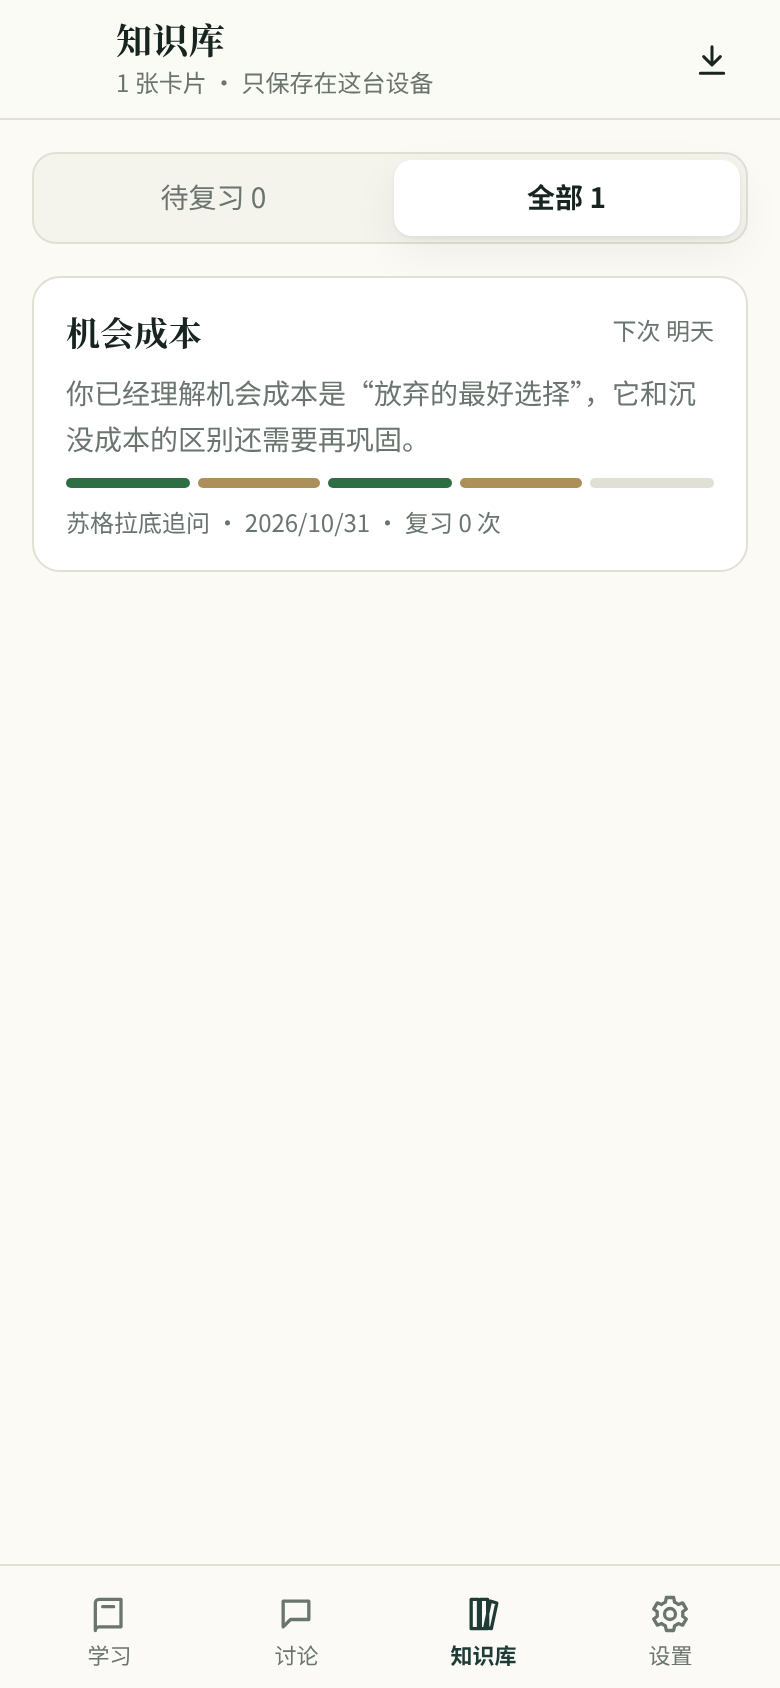
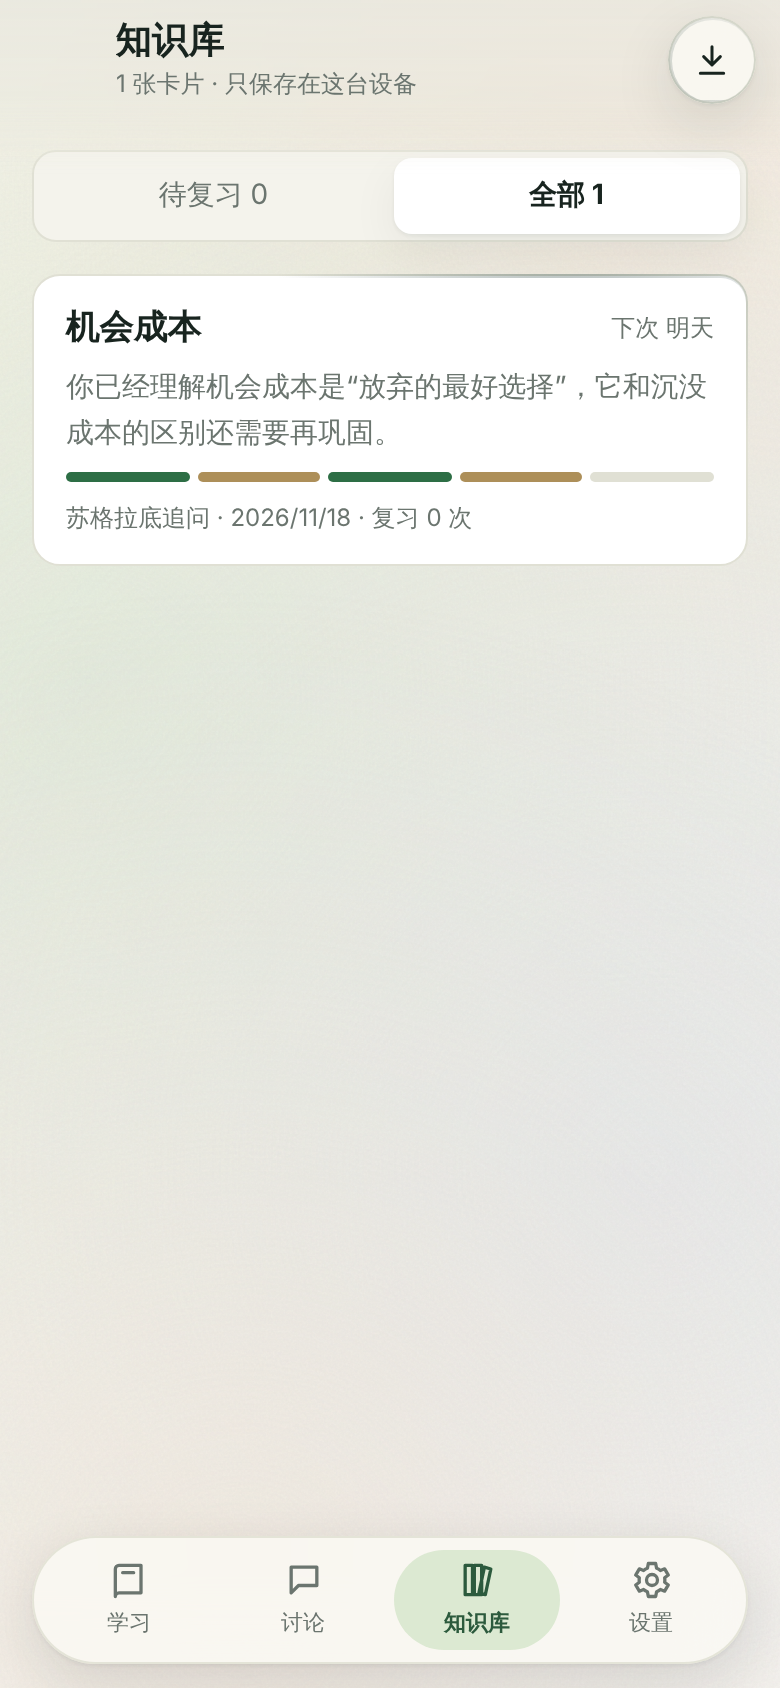
style: 网页版悬浮控件层：胶囊底栏、悬浮操作和顶栏、胶囊按钮、两档面板
和原生版一致，参考 iOS 液态玻璃规范：底部导航是磨砂胶囊、往下滚时收起；
顶栏、底部操作、讨论页输入栏不垫整条底色，内容滚到附近时变模糊、变淡；
有文字的按钮是胶囊，只有图标的按钮是圆形；面板悬浮、分半高和全高两档、下拖关闭。

Refs #100

Claude-Session: https://claude.ai/code/session_01RzFBQZp3Xs7T4R5Pprro5u

diff --git a/src/styles.css b/src/styles.css
@@ -54,7 +54,7 @@
   --nav-gap: 12px;
   --nav-clear: calc(var(--tab-h) + var(--nav-gap) * 2 + env(safe-area-inset-bottom, 0px));
   /* 悬浮的东西用“半透明磨砂”：半透明的卡片色加模糊，背景氛围透得出来 */
-  --glass-bg: color-mix(in srgb, var(--surface) 72%, transparent);
+  --glass-bg: color-mix(in srgb, var(--surface) 80%, transparent);
   --glass-line: color-mix(in srgb, var(--line) 85%, transparent);
   --float-shadow: 0 1px 2px rgb(24 36 31 / 6%), 0 10px 30px rgb(24 36 31 / 12%);
   color-scheme: light;
@@ -443,6 +443,13 @@ code {
   );
   mask-image: linear-gradient(to top, #000 55%, transparent);
 }
+/* 有底栏时，按钮身后的磨砂一直铺到屏幕底部，夹在按钮和底栏之间的内容也变模糊 */
+.dock::before {
+  bottom: calc(-1 * (var(--tab-h) + var(--nav-gap) + env(safe-area-inset-bottom, 0px)));
+}
+.immersive .dock::before {
+  bottom: 0;
+}
 .immersive .dock {
   bottom: 0;
   padding-bottom: calc(12px + env(safe-area-inset-bottom, 0px));
@@ -498,7 +505,8 @@ code {
   gap: 6px;
   min-height: 48px;
   padding: 0 20px;
-  border-radius: 14px;
+  /* 有文字的按钮是胶囊，只有图标的按钮是圆形（参考 iOS 的按钮形状规范） */
+  border-radius: 999px;
   font-weight: 600;
   font-size: 16px;
   transition:
@@ -526,9 +534,9 @@ code {
 }
 .small {
   min-height: 36px;
-  padding: 0 12px;
+  padding: 0 14px;
   font-size: 14px;
-  border-radius: 10px;
+  border-radius: 999px;
 }
 .block {
   width: 100%;
@@ -2897,6 +2905,128 @@ select:focus {
   min-height: 32px;
 }
 
+/* ---------- 悬浮的控件层（参考 iOS 液态玻璃规范） ----------
+   玻璃只用于导航和控件，浮在内容上；内容层（卡片、气泡）不用。顶栏、讨论页的进度条不垫整条底色，
+   内容滚到它们下面时变模糊、变淡（“滚动边缘效果”）。 */
+.icon-btn {
+  border-radius: 50%;
+}
+.topbar,
+.session-top {
+  background: none;
+  backdrop-filter: none;
+  -webkit-backdrop-filter: none;
+  border-bottom: 0;
+}
+.topbar::before,
+.session-top::before {
+  content: '';
+  position: absolute;
+  inset: 0 0 -28px;
+  z-index: -1;
+  pointer-events: none;
+  backdrop-filter: blur(8px);
+  -webkit-backdrop-filter: blur(8px);
+  background: linear-gradient(
+    to bottom,
+    color-mix(in srgb, var(--page) 70%, transparent),
+    transparent
+  );
+  mask-image: linear-gradient(to bottom, #000 55%, transparent);
+}
+.session-top .topbar::before {
+  display: none;
+}
+/* 顶栏里的返回、导出这些只有图标的按钮是圆形磨砂；右边的文字按钮是磨砂胶囊 */
+.topbar .icon-btn,
+.topbar-right .secondary,
+.progress,
+.canvas-path,
+.board {
+  background: var(--glass-bg);
+  backdrop-filter: blur(18px) saturate(1.3);
+  -webkit-backdrop-filter: blur(18px) saturate(1.3);
+  border: 1px solid var(--glass-line);
+  box-shadow: var(--float-shadow);
+}
+.progress,
+.canvas-path {
+  margin: 0 max(12px, env(safe-area-inset-right, 0px)) 8px max(12px, env(safe-area-inset-left, 0px));
+  padding: 4px 4px 4px 14px;
+  border-radius: 24px;
+}
+.board {
+  width: calc(100% - 2 * max(12px, env(safe-area-inset-left, 0px)));
+  border-radius: 20px;
+}
+
+/* 底栏收起：往下滚时只剩当前标签的小圆，缩到左下角 */
+.tabbar {
+  transition:
+    width 0.32s cubic-bezier(0.2, 0.8, 0.2, 1),
+    left 0.32s cubic-bezier(0.2, 0.8, 0.2, 1),
+    transform 0.32s cubic-bezier(0.2, 0.8, 0.2, 1);
+}
+.tabbar.collapsed {
+  width: var(--tab-h);
+  left: max(16px, env(safe-area-inset-left, 0px));
+  transform: none;
+  grid-template-columns: 1fr;
+}
+.tabbar.collapsed button:not(.active) {
+  display: none;
+}
+.tabbar.collapsed button span:last-child {
+  display: none;
+}
+
+/* 面板：四边留空隙的悬浮卡片；内容多时先停在半高，往上拖到全高，往下拖关掉 */
+.sheet {
+  width: calc(100% - 16px);
+  margin-bottom: calc(8px + env(safe-area-inset-bottom, 0px));
+  max-height: 55dvh;
+  border-radius: 28px;
+  padding-bottom: 18px;
+  box-shadow: var(--float-shadow);
+  transition:
+    max-height 0.3s cubic-bezier(0.2, 0.8, 0.2, 1),
+    transform 0.25s;
+}
+.sheet.full {
+  max-height: calc(100dvh - 24px - env(safe-area-inset-top, 0px));
+}
+.sheet.dragging {
+  transition: none;
+}
+/* 拖动条和标题：按住能拖，跟着面板一起吸在顶上 */
+.sheet-drag {
+  position: sticky;
+  top: -8px;
+  z-index: 1;
+  display: flex;
+  flex-direction: column;
+  gap: 4px;
+  margin: -8px -4px 0;
+  padding: 8px 4px 4px;
+  background: var(--surface);
+  touch-action: none;
+  cursor: grab;
+}
+.sheet-grip {
+  position: relative;
+  width: 44px;
+  height: 20px;
+  background: none;
+  align-self: center;
+}
+.sheet-grip::after {
+  content: '';
+  position: absolute;
+  inset: 8px 4px 7px;
+  border-radius: 3px;
+  background: var(--line);
+}
+
 /* ---------- 页面与面板的连贯动效（View Transitions） ----------
    前进：旧页往左退半步、变暗，新页从右边滑进来；后退反过来。
    同名元素（概念、讨论方式、主按钮、返回键、底部导航、卡片、要点）从旧位置变形到新位置。
@@ -3422,6 +3552,15 @@ body::after {
   .tabbar button {
     border-radius: 12px;
   }
+  /* 左侧导航不收起 */
+  .tabbar.collapsed {
+    width: var(--rail);
+    left: 0;
+  }
+  .tabbar.collapsed button:not(.active),
+  .tabbar.collapsed button span:last-child {
+    display: flex;
+  }
   .dock {
     bottom: 0;
   }
@@ -3439,10 +3578,13 @@ body::after {
   .immersive .sheet-backdrop {
     padding-left: 24px;
   }
-  .sheet {
+  .sheet,
+  .sheet.full {
+    width: 100%;
+    margin-bottom: 0;
     max-width: 560px;
     max-height: min(86dvh, 760px);
-    border-radius: 20px;
+    border-radius: 24px;
     box-shadow: var(--shadow);
     padding-bottom: 18px;
   }

diff --git a/src/components/ui.tsx b/src/components/ui.tsx
@@ -1,5 +1,11 @@
 // 通用界面组件
-import { useEffect, useRef, useState, type ReactNode } from 'react';
+import {
+  useEffect,
+  useRef,
+  useState,
+  type PointerEvent as ReactPointerEvent,
+  type ReactNode,
+} from 'react';
 import { cancelAI } from '../lib/ai.ts';
 import { go, update, useApp, type Screen } from '../store.ts';
 import type { PointStatus, QuizItem } from '../../shared/types.ts';
@@ -118,6 +124,25 @@ export function ErrorBanner() {
   );
 }
 
+// 往下滚时底部胶囊收起成当前标签的小圆，往回滚、滚到顶或点它就展开（参考 iOS 的标签栏）。换页面时展开
+function useCollapseOnScroll(screen: Screen) {
+  const [on, setOn] = useState(false);
+  useEffect(() => {
+    setOn(false);
+    let last = window.scrollY;
+    const onScroll = () => {
+      const y = window.scrollY;
+      if (y <= 8) setOn(false);
+      else if (y > last + 4) setOn(true);
+      else if (y < last - 4) setOn(false);
+      last = y;
+    };
+    window.addEventListener('scroll', onScroll, { passive: true });
+    return () => window.removeEventListener('scroll', onScroll);
+  }, [screen]);
+  return { on, expand: () => setOn(false) };
+}
+
 export function TabBar() {
   const { ui, library, session } = useApp();
   const due = library.filter(c => c.due <= Date.now()).length;
@@ -131,14 +156,21 @@ export function TabBar() {
     ui.screen === s ||
     (s === 'library' && ui.screen === 'card') ||
     (s === 'session' && ui.screen === 'review');
+  const collapsed = useCollapseOnScroll(ui.screen);
   return (
-    <nav className="tabbar" aria-label="主导航">
+    <nav className={'tabbar' + (collapsed.on ? ' collapsed' : '')} aria-label="主导航">
       {tabs.map(([s, icon, label]) => (
         <button
           key={s}
           className={active(s) ? 'active' : ''}
           aria-current={active(s) ? 'page' : undefined}
-          onClick={() => go(s === 'session' && session?.finished && session.review ? 'review' : s)}
+          aria-label={collapsed.on && active(s) ? `${label}，展开导航` : undefined}
+          tabIndex={collapsed.on && !active(s) ? -1 : undefined}
+          onClick={() =>
+            collapsed.on
+              ? collapsed.expand()
+              : go(s === 'session' && session?.finished && session.review ? 'review' : s)
+          }
         >
           <span className="tab-icon">
             <Icon name={icon} size={22} />
@@ -175,10 +207,41 @@ export function Sheet({
     ref.current?.focus();
     return () => window.removeEventListener('keydown', k);
   }, [onClose]);
+  // 两档：内容多时先停在半高，往上拖到全高；往下拖关掉（全高时先回到半高）。半途松手弹回去
+  const [expanded, setExpanded] = useState(false);
+  const [canExpand, setCanExpand] = useState(false);
+  const [dragY, setDragY] = useState(0);
+  const start = useRef<{ y: number; t: number } | null>(null);
+  useEffect(() => {
+    const el = ref.current;
+    if (el && !expanded) setCanExpand(el.scrollHeight > el.clientHeight + 4);
+  }, [expanded, children]);
+  const onDown = (e: ReactPointerEvent) => {
+    start.current = { y: e.clientY, t: performance.now() };
+    (e.currentTarget as HTMLElement).setPointerCapture(e.pointerId);
+  };
+  const onMove = (e: ReactPointerEvent) => {
+    if (!start.current) return;
+    const d = e.clientY - start.current.y;
+    setDragY(canExpand && !expanded ? Math.max(d, -120) : Math.max(d, 0));
+  };
+  const onUp = (e: ReactPointerEvent) => {
+    if (!start.current) return;
+    const d = e.clientY - start.current.y;
+    const v = d / Math.max(1, performance.now() - start.current.t); // 像素/毫秒
+    start.current = null;
+    setDragY(0);
+    if ((d < -60 || v < -0.8) && canExpand && !expanded) setExpanded(true);
+    else if (d > 120 || v > 0.8) {
+      if (expanded) setExpanded(false);
+      else onClose();
+    }
+  };
   return (
     <div className={'sheet-backdrop' + (morphing ? ' morphing' : '')} onClick={onClose}>
       <div
-        className={'sheet ' + className}
+        className={'sheet ' + className + (expanded ? ' full' : '') + (dragY ? ' dragging' : '')}
+        style={dragY > 0 ? { transform: `translateY(${dragY}px)` } : undefined}
         role="dialog"
         aria-modal="true"
         aria-label={title}
@@ -186,12 +249,28 @@ export function Sheet({
         ref={ref}
         onClick={e => e.stopPropagation()}
       >
-        <div className="sheet-grip" aria-hidden="true" />
-        <div className="sheet-head">
-          <h2>{title}</h2>
-          <button className="icon-btn" aria-label="关闭" onClick={onClose}>
-            <Icon name="close" />
-          </button>
+        <div
+          className="sheet-drag"
+          onPointerDown={onDown}
+          onPointerMove={onMove}
+          onPointerUp={onUp}
+          onPointerCancel={onUp}
+        >
+          {canExpand ? (
+            <button
+              className="sheet-grip"
+              aria-label={expanded ? '收起到半高' : '展开到全高'}
+              onClick={() => setExpanded(x => !x)}
+            />
+          ) : (
+            <div className="sheet-grip quiet" aria-hidden="true" />
+          )}
+          <div className="sheet-head">
+            <h2>{title}</h2>
+            <button className="icon-btn" aria-label="关闭" onClick={onClose}>
+              <Icon name="close" />
+            </button>
+          </div>
         </div>
         {children}
       </div>

diff --git a/AGENTS.md b/AGENTS.md
@@ -78,6 +78,12 @@ cd worker && npm install && npm run dev   # 本地运行后端（先把 .dev.var
 
 - 先按 390px 宽的手机设计，再往上适配：600px（折叠屏、小平板，内容放宽）、840px（平板和电脑：左侧导航栏、页面分栏、面板变成居中对话框）、横着拿的手机（高度 ≤ 500px：左侧导航栏，顶栏和底部按钮不常驻）。规则都在 `styles.css` 的“响应式布局”一节；新页面在这几档下都看一眼。任何宽度都不能出现横向滚动，最窄看 320px。
 - 可点区域至少 44×44px；主要操作放在底部（`.dock` 或 `.composer`），单手可达。
+- 控件层是悬浮的（参考 iOS 液态玻璃规范，见 #100）：
+  - 底部导航是磨砂胶囊，往下滚时收起；顶栏、底部操作、讨论页的输入栏都不垫整条底色，内容可以滚到它们下面，滚到附近时变模糊、变淡。
+  - 磨砂（`--glass-bg`）只用于导航和控件，卡片、气泡这些内容层不用。
+  - 有文字的按钮是胶囊，只有图标的按钮是圆形。
+  - 面板是四边留空隙的悬浮卡片，内容多时分半高、全高两档，下拖关闭。
+  - 原生版用同样的规则（`ui/Glass.kt`）。
 - 颜色只用 `styles.css` 里的令牌（`--brand`、`--ink`、`--muted` 等），浅色和深色都要看一遍，不写死颜色。
 - 页面底下铺着一层背景氛围（渐隐的色块和淡噪点，极慢地漂，见 `styles.css` 的“背景氛围”一节，原生版是 `ui/Atmosphere.kt`）。页面、栏目不要再铺满屏的纯色底，否则会把它盖住；卡片、气泡、面板这些承载内容的地方照常用 `--surface`、`--raised`，保证文字对比度。吸附条用半透明加小范围模糊。
 - 字体分工：衬线（`--f-display`）只用于“知识本身”：概念名、讨论题、要点、学习者自己的小结、复盘结论、术语词条、检验题；对话气泡、按钮、标签、提示用无衬线（`--f-body`）。字号用 `--t-*` 阶梯，衬线正文行距用 `--lh-serif`。只用系统字体，不引入网络字体（App 要离线可用）。
